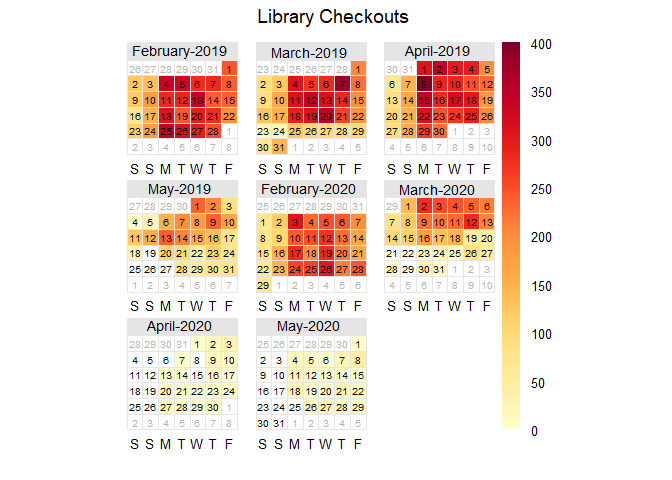
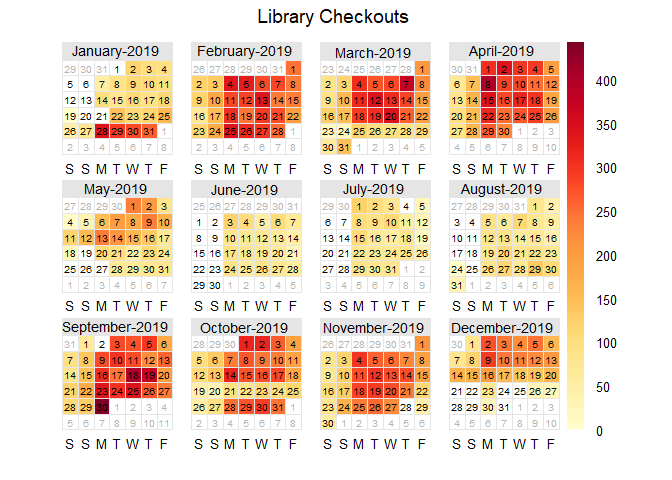
Cleaned README

diff --git a/README.md b/README.md
@@ -48,9 +48,9 @@ or the PARC, you may use the `get_checkouts` function as such:
 
 ``` r
 # Get PARC checkout data
-PARC_checkouts <- RCLC::get_checkouts(location = "PARC")
+PARC_checkouts <- get_checkouts(location = "PARC")
 # Get IMC checkout data
-IMC_checkouts <- RCLC::get_checkouts(location = "IMC")
+IMC_checkouts <- get_checkouts(location = "IMC")
 ```
 
 The `get_checkouts` function is versatile\! You could also query
@@ -60,29 +60,36 @@ musical score checkouts:
 
 ``` r
 # Get musical score checkout data
-score_checkouts <- RCLC::get_checkouts(location = "Score")
+score_checkouts <- get_checkouts(location = "Score")
 ```
 
 ## Example
 
 Here is an example of our data in action\! This is a heatmap (over a
-calendar) of checkout data by day. Can you think of why 2020 looks so
-different from 2019?
+calendar) of checkout data by day in 2019.
 
 ``` r
 library(dplyr)
 library(openair)
+
 reed_checkouts %>%
   mutate(Loaned = as.Date(Loaned,"%y-%m-%d")) %>%
-  filter(as.numeric(strftime(Loaned, "%m")) %in% 2:5) %>%
   group_by(Loaned) %>%
   summarise(checkouts = n()) %>%
   rename(date=Loaned) %>%
-  calendarPlot(pollutant = "checkouts", main="Library Checkouts")
+  calendarPlot(pollutant = "checkouts", 
+               main="Library Checkouts",
+               year = 2019)
 ```
 
 <img src="man/figures/README-unnamed-chunk-6-1.png" width="100%" />
 
+-----
+
+## 2019 v. 2020
+
+Can you think of why 2020 looks so different from 2019? 🤔
+
 |     Checkouts 2019 (Redux)     |     Checkouts 2020 (Redux)     |
 | :----------------------------: | :----------------------------: |
-| ![](Graphics/example_2019.png) | ![](Graphics/example_2020.png) |
+| ![](graphics/example_2019.png) | ![](graphics/example_2020.png) |
